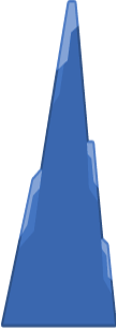
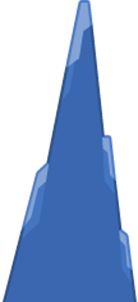
Viewport Screen bug fix.

diff --git a/core/src/Screens/GameScreen.java b/core/src/Screens/GameScreen.java
@@ -10,6 +10,7 @@ import com.badlogic.gdx.math.MathUtils;
 import com.badlogic.gdx.math.Rectangle;
 import com.badlogic.gdx.scenes.scene2d.Actor;
 import com.badlogic.gdx.scenes.scene2d.Stage;
+import com.badlogic.gdx.utils.viewport.ExtendViewport;
 import com.badlogic.gdx.utils.viewport.FitViewport;
 import com.qualixium.fishcave.Assets;
 import static com.qualixium.fishcave.actors.ObstaclesActor.Rock;
@@ -34,7 +35,7 @@ public class GameScreen extends Screens {
 
     public GameScreen(FishcaveGame game) {
         super(game);
-        stage = new Stage(new FitViewport(480, 640));
+        stage = new Stage(new ExtendViewport(480, 720));
         Gdx.input.setInputProcessor(stage);
 
         background = new BackgroundActor();
@@ -70,7 +71,7 @@ public class GameScreen extends Screens {
         ObstaclesActor.rocks.clear();
         for (int i = 0; i < 5; i++) {
             boolean isDown = MathUtils.randomBoolean();
-            ObstaclesActor.rocks.add(new Rock(700 + i * 200, isDown ? 640
+            ObstaclesActor.rocks.add(new Rock(700 + i * 200, isDown ? stage.getHeight()
                     - ObstaclesActor.rock.getRegionHeight() : 0, isDown
                             ? ObstaclesActor.rockDown : ObstaclesActor.rock));
         }
@@ -117,7 +118,7 @@ public class GameScreen extends Screens {
             if (stage.getCamera().position.x - r.position.x > 400 + r.image.getRegionWidth()) {
                 boolean isDown = MathUtils.randomBoolean();
                 r.position.x += 5 * 200;
-                r.position.y = isDown ? 640 - ObstaclesActor.rock.getRegionHeight() : 0;
+                r.position.y = isDown ? stage.getHeight() - ObstaclesActor.rock.getRegionHeight() : 0;
                 r.image = isDown ? ObstaclesActor.rockDown : ObstaclesActor.rock;
                 r.counted = false;
             }
@@ -138,7 +139,7 @@ public class GameScreen extends Screens {
         }
 
         if (fish.getY() < ObstaclesActor.ground.getRegionHeight() - 20
-                || fish.getY() + fish.getHeight() > 640 - ObstaclesActor.ground.getRegionHeight() + 20) {
+                || fish.getY() + fish.getHeight() > stage.getHeight() - ObstaclesActor.ground.getRegionHeight() + 20) {
             if (GameState.state != GameState.State.GameOver) {
                 Assets.explode.play();
             }

diff --git a/core/src/Screens/SplashScreen.java b/core/src/Screens/SplashScreen.java
@@ -8,7 +8,7 @@ package Screens;
 import com.badlogic.gdx.Gdx;
 import com.badlogic.gdx.scenes.scene2d.Stage;
 import com.badlogic.gdx.utils.TimeUtils;
-import com.badlogic.gdx.utils.viewport.FitViewport;
+import com.badlogic.gdx.utils.viewport.ExtendViewport;
 import com.qualixium.fishcave.FishcaveGame;
 import com.qualixium.fishcave.actors.SplashActor;
 
@@ -19,16 +19,16 @@ import com.qualixium.fishcave.actors.SplashActor;
 public class SplashScreen extends Screens {
 
     public static Stage stage;
-    private FishcaveGame game;
-    private long startTime;
-    private SplashActor splash;
+    private final FishcaveGame gameCore;
+    private final long startTime;
+    private final SplashActor splash;
 
     public SplashScreen(FishcaveGame g) {
         super(g);
-        stage = new Stage(new FitViewport(480, 640));
+        stage = new Stage(new ExtendViewport(480, 640));
         Gdx.input.setInputProcessor(stage);
 
-        game = g;
+        gameCore = g;
 
         splash = new SplashActor();
         stage.addActor(splash);
@@ -38,7 +38,7 @@ public class SplashScreen extends Screens {
 
     public void showGame() {
         if (TimeUtils.millis() > (startTime + 5000)) {
-            game.setScreen(new GameScreen(game));
+            gameCore.setScreen(new GameScreen(gameCore));
         }
     }
 

diff --git a/core/src/com/qualixium/fishcave/actors/ObstaclesActor.java b/core/src/com/qualixium/fishcave/actors/ObstaclesActor.java
@@ -5,6 +5,7 @@
  */
 package com.qualixium.fishcave.actors;
 
+import Screens.GameScreen;
 import com.badlogic.gdx.graphics.Color;
 import com.badlogic.gdx.graphics.g2d.Batch;
 import com.badlogic.gdx.graphics.g2d.TextureRegion;
@@ -27,7 +28,7 @@ public class ObstaclesActor extends Actor {
 
     public ObstaclesActor() {
 
-        rock = new TextureRegion(Assets.rock);
+        rock = new TextureRegion(Assets.rock, Assets.rock.getWidth(), Math.round(GameScreen.stage.getHeight() / 2));
         rockDown = new TextureRegion(rock);
         rockDown.flip(false, true);
 
@@ -49,8 +50,8 @@ public class ObstaclesActor extends Actor {
         batch.draw(ground, groundOffsetX, 0);
         batch.draw(ground, groundOffsetX + ground.getRegionWidth(), 0);
         
-        batch.draw(ceiling, groundOffsetX, 640 - ceiling.getRegionHeight());
-        batch.draw(ceiling, groundOffsetX + ceiling.getRegionWidth(), 640 - ceiling.getRegionHeight());
+        batch.draw(ceiling, groundOffsetX, GameScreen.stage.getHeight() - ceiling.getRegionHeight());
+        batch.draw(ceiling, groundOffsetX + ceiling.getRegionWidth(), GameScreen.stage.getHeight() - ceiling.getRegionHeight());
 
 
     }

diff --git a/desktop/src/com/qualixium/fishcave/desktop/DesktopLauncher.java b/desktop/src/com/qualixium/fishcave/desktop/DesktopLauncher.java
@@ -8,7 +8,7 @@ public class DesktopLauncher {
 	public static void main (String[] arg) {
 		LwjglApplicationConfiguration config = new LwjglApplicationConfiguration();
                 config.width = 480;
-		config.height = 640;
+		config.height = 720;
 		new LwjglApplication(new FishcaveGame(), config);
 	}
 }
